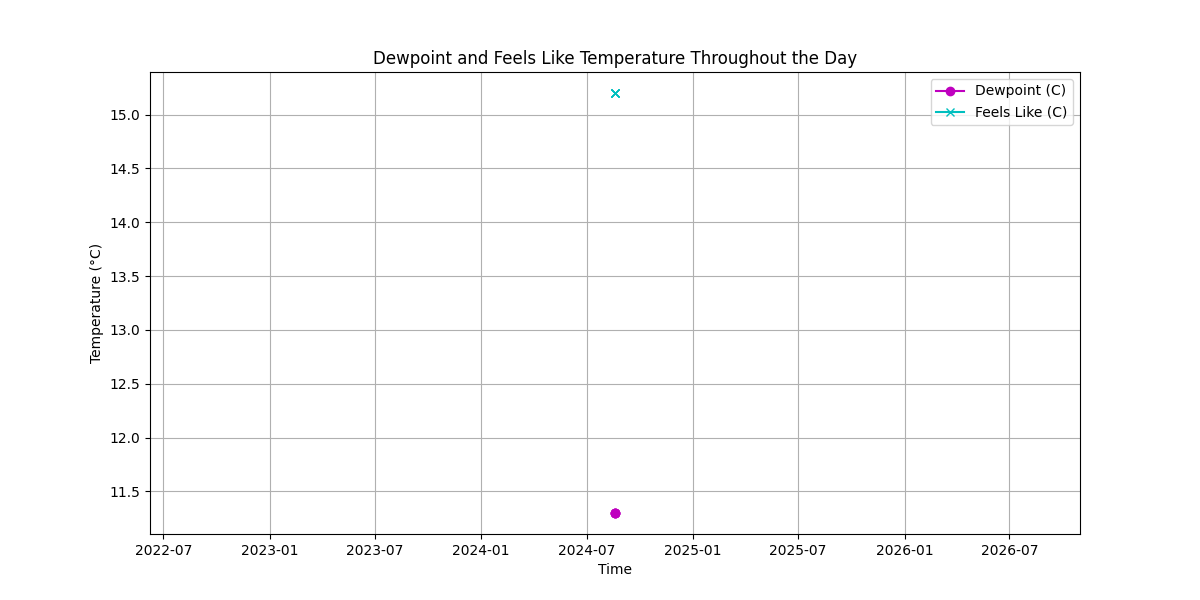
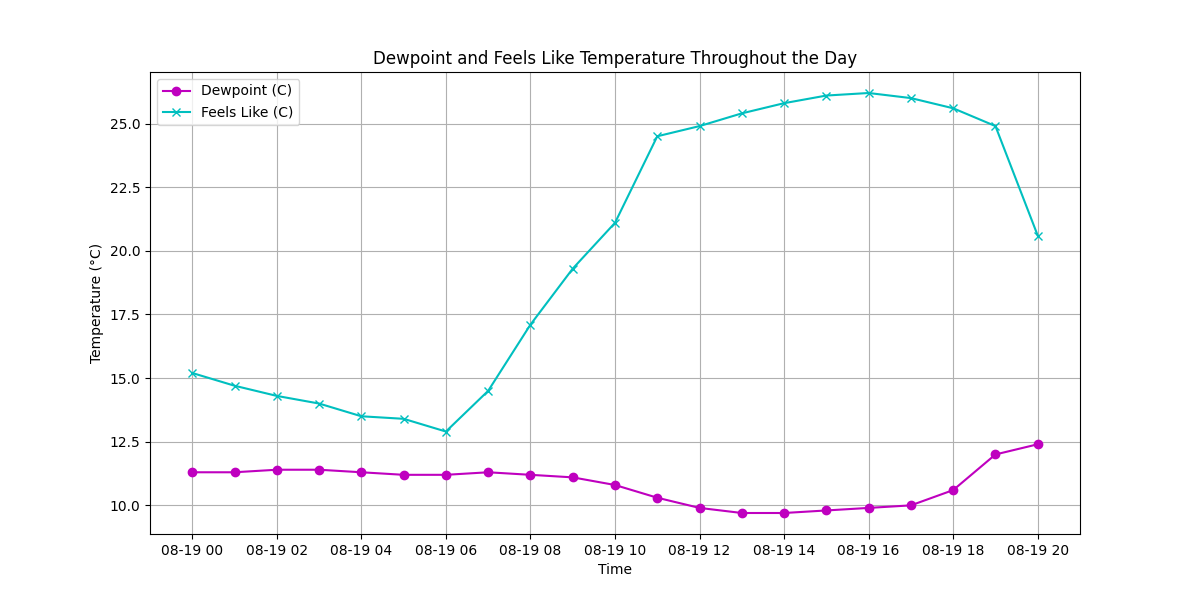
docs

diff --git a/scripts/analyse.py b/scripts/analyse.py
@@ -1,0 +1,56 @@
+import pandas as pd
+import matplotlib.pyplot as plt
+
+# Load the CSV file into a pandas DataFrame
+df = pd.read_csv('../data/combined.csv')
+
+# Convert 'Time' to datetime object for better time-based analysis
+df['Time'] = pd.to_datetime(df['Time'])
+
+# Example: Plotting the temperature over time
+plt.figure(figsize=(12, 6))
+plt.plot(df['Time'], df['Temp (C)'], marker='o', linestyle='-', color='b', label='Temperature (C)')
+plt.xlabel('Time')
+plt.ylabel('Temperature (°C)')
+plt.title('Real-Time Temperature Evolution Throughout the Day')
+plt.legend()
+plt.grid(True)
+plt.savefig('../docs/real_time_temperature_evolution.png')  # Save the plot as a PNG file
+# plt.show()
+
+# Additional Analysis: Comparing Temperature, Humidity, and Wind Speed
+plt.figure(figsize=(12, 6))
+plt.plot(df['Time'], df['Temp (C)'], marker='o', linestyle='-', color='b', label='Temperature (C)')
+plt.plot(df['Time'], df['Humidity'], marker='x', linestyle='-', color='g', label='Humidity (%)')
+plt.plot(df['Time'], df['Wind (kph)'], marker='s', linestyle='-', color='r', label='Wind Speed (kph)')
+plt.xlabel('Time')
+plt.ylabel('Value')
+plt.title('Real-Time Weather Metrics Throughout the Day')
+plt.legend()
+plt.grid(True)
+plt.savefig('../docs/real_time_weather_metrics_comparison.png')  # Save the plot as a PNG file
+# plt.show()
+
+# Further Analysis Ideas:
+# 1. Plot the Dewpoint and Feels Like Temperature throughout the day.
+plt.figure(figsize=(12, 6))
+plt.plot(df['Time'], df['Dewpoint (C)'], marker='o', linestyle='-', color='m', label='Dewpoint (C)')
+plt.plot(df['Time'], df['Feels Like (C)'], marker='x', linestyle='-', color='c', label='Feels Like (C)')
+plt.xlabel('Time')
+plt.ylabel('Temperature (°C)')
+plt.title('Dewpoint and Feels Like Temperature Throughout the Day')
+plt.legend()
+plt.grid(True)
+plt.savefig('../docs/dewpoint_feelslike_temperature.png')  # Save the plot as a PNG file
+# plt.show()
+
+# 2. Calculate and plot the wind gusts over time.
+plt.figure(figsize=(12, 6))
+plt.plot(df['Time'], df['Gust (kph)'], marker='o', linestyle='-', color='purple', label='Wind Gust (kph)')
+plt.xlabel('Time')
+plt.ylabel('Wind Gust (kph)')
+plt.title('Wind Gusts Throughout the Day')
+plt.legend()
+plt.grid(True)
+plt.savefig('../docs/wind_gusts.png')  # Save the plot as a PNG file
+# plt.show()
